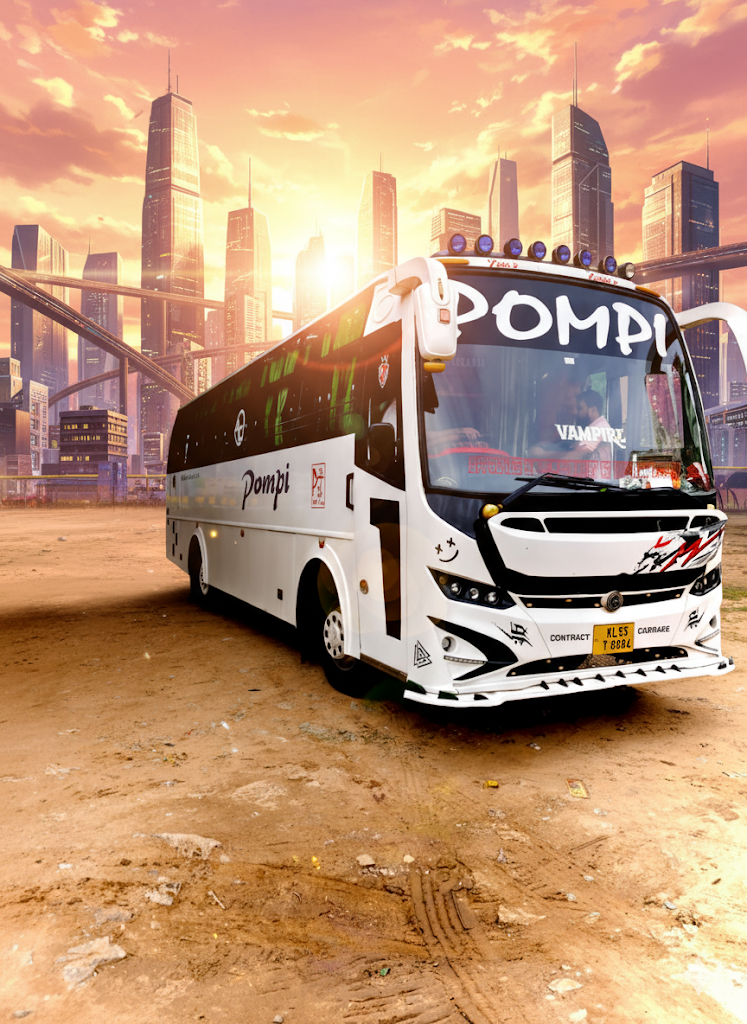
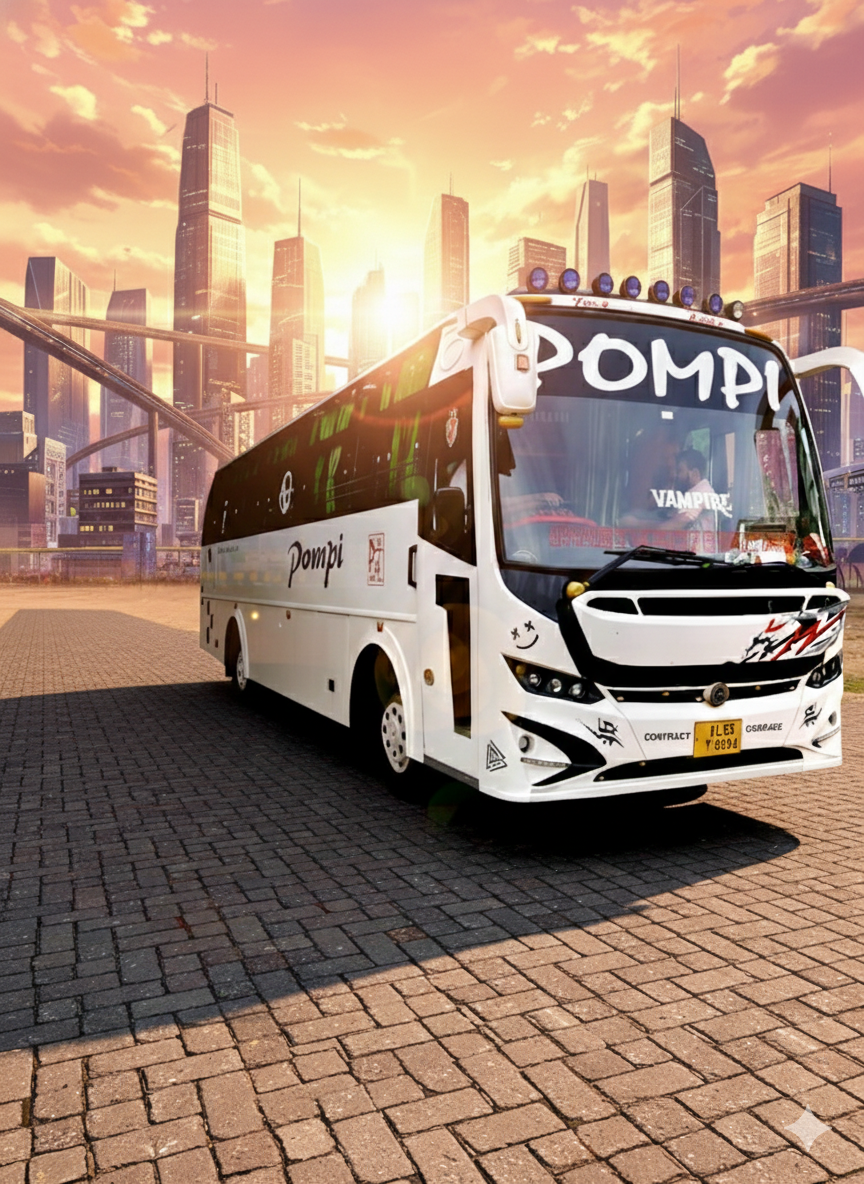
change

diff --git a/src/components/BusServices.tsx b/src/components/BusServices.tsx
@@ -44,9 +44,9 @@ const BusServices = () => {
                             <div className="absolute -inset-3 bg-red-100 rounded-2xl transform -rotate-3 transition-transform group-hover:rotate-0 duration-500"></div>
                             <div className="relative overflow-hidden rounded-2xl shadow-xl bg-white p-3">
                                 <img
-                                    src="/pompibus.png"
+                                    src="/pompiai.png"
                                     alt="Pompi Bus Service"
-                                    className="w-full max-h-56 object-cover rounded-lg transition-transform duration-700 group-hover:scale-105"
+                                    className="w-full h-auto rounded-lg transition-transform duration-700 group-hover:scale-105"
                                     onError={(e) => {
                                         const target = e.target as HTMLImageElement;
                                         target.src = 'https://images.unsplash.com/photo-1544620347-c4fd4a3d5957?ixlib=rb-4.0.3&auto=format&fit=crop&w=1000&q=80';
